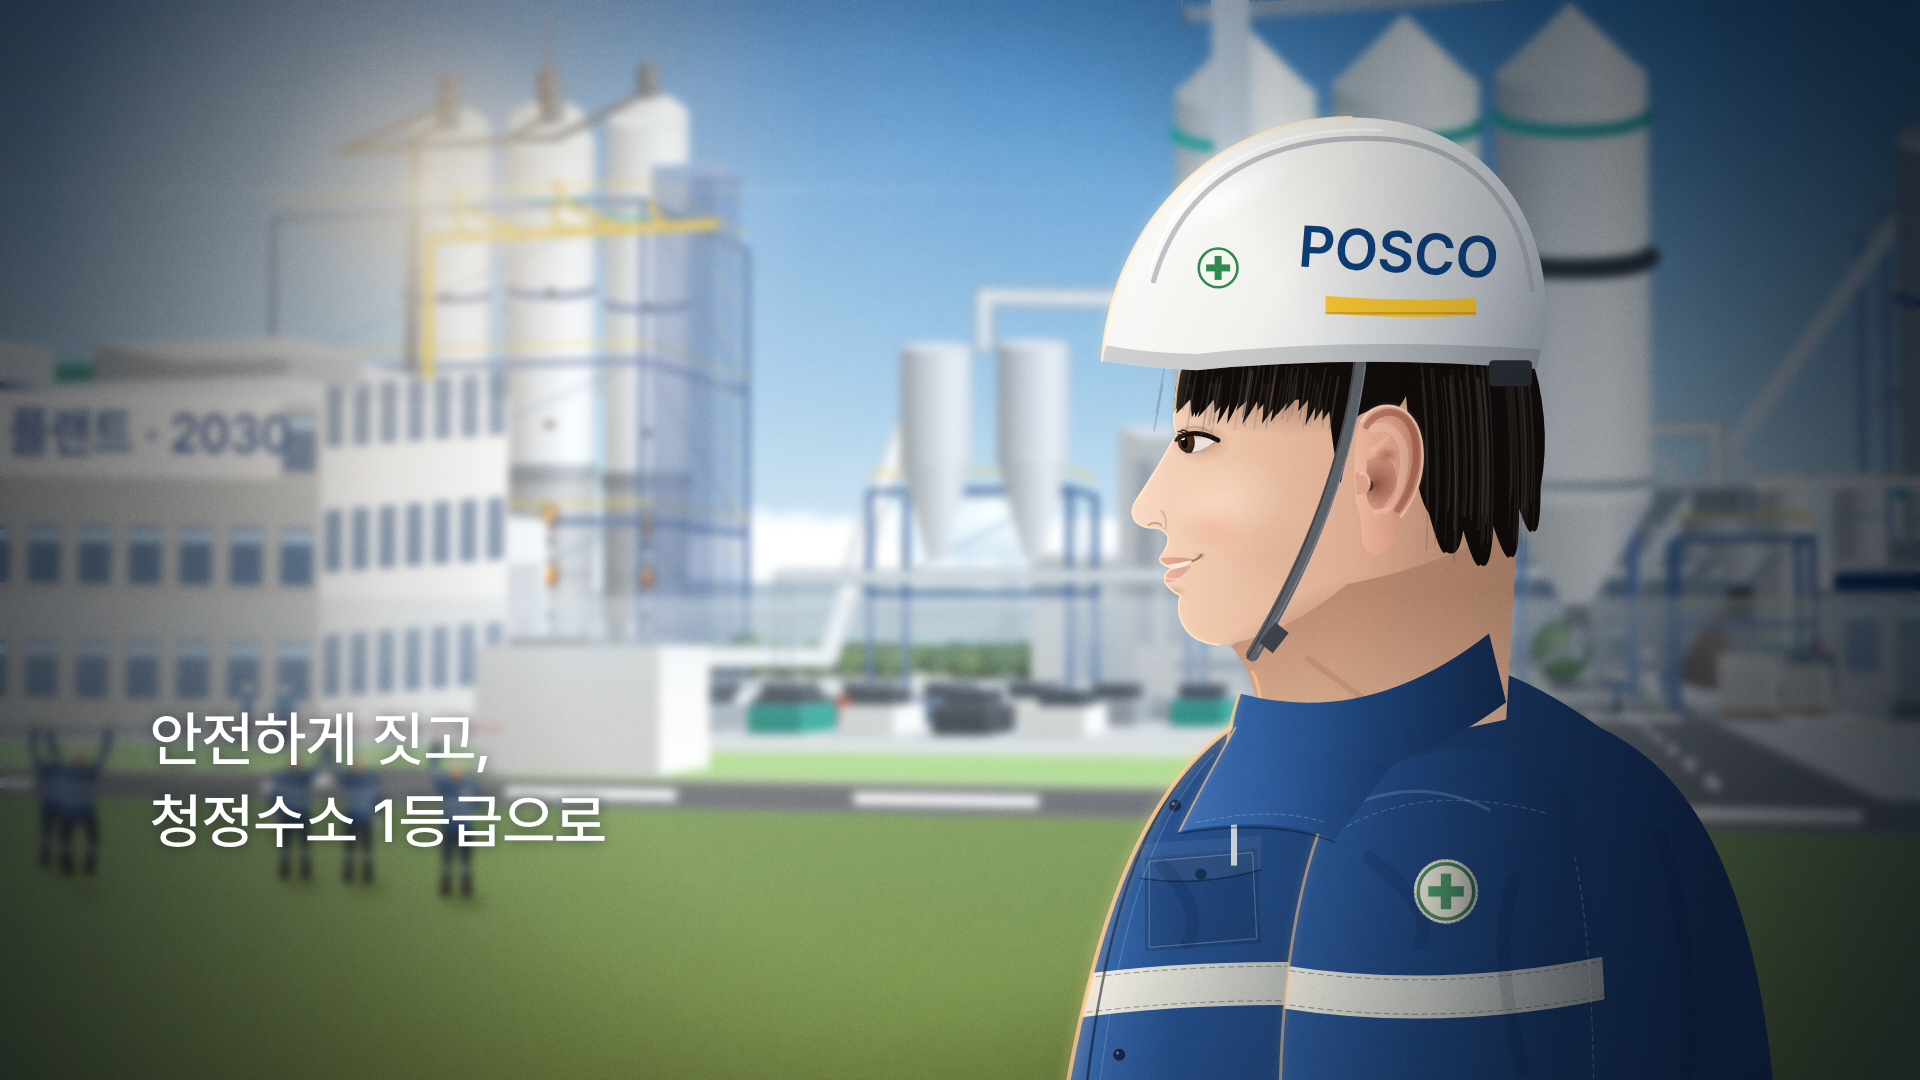
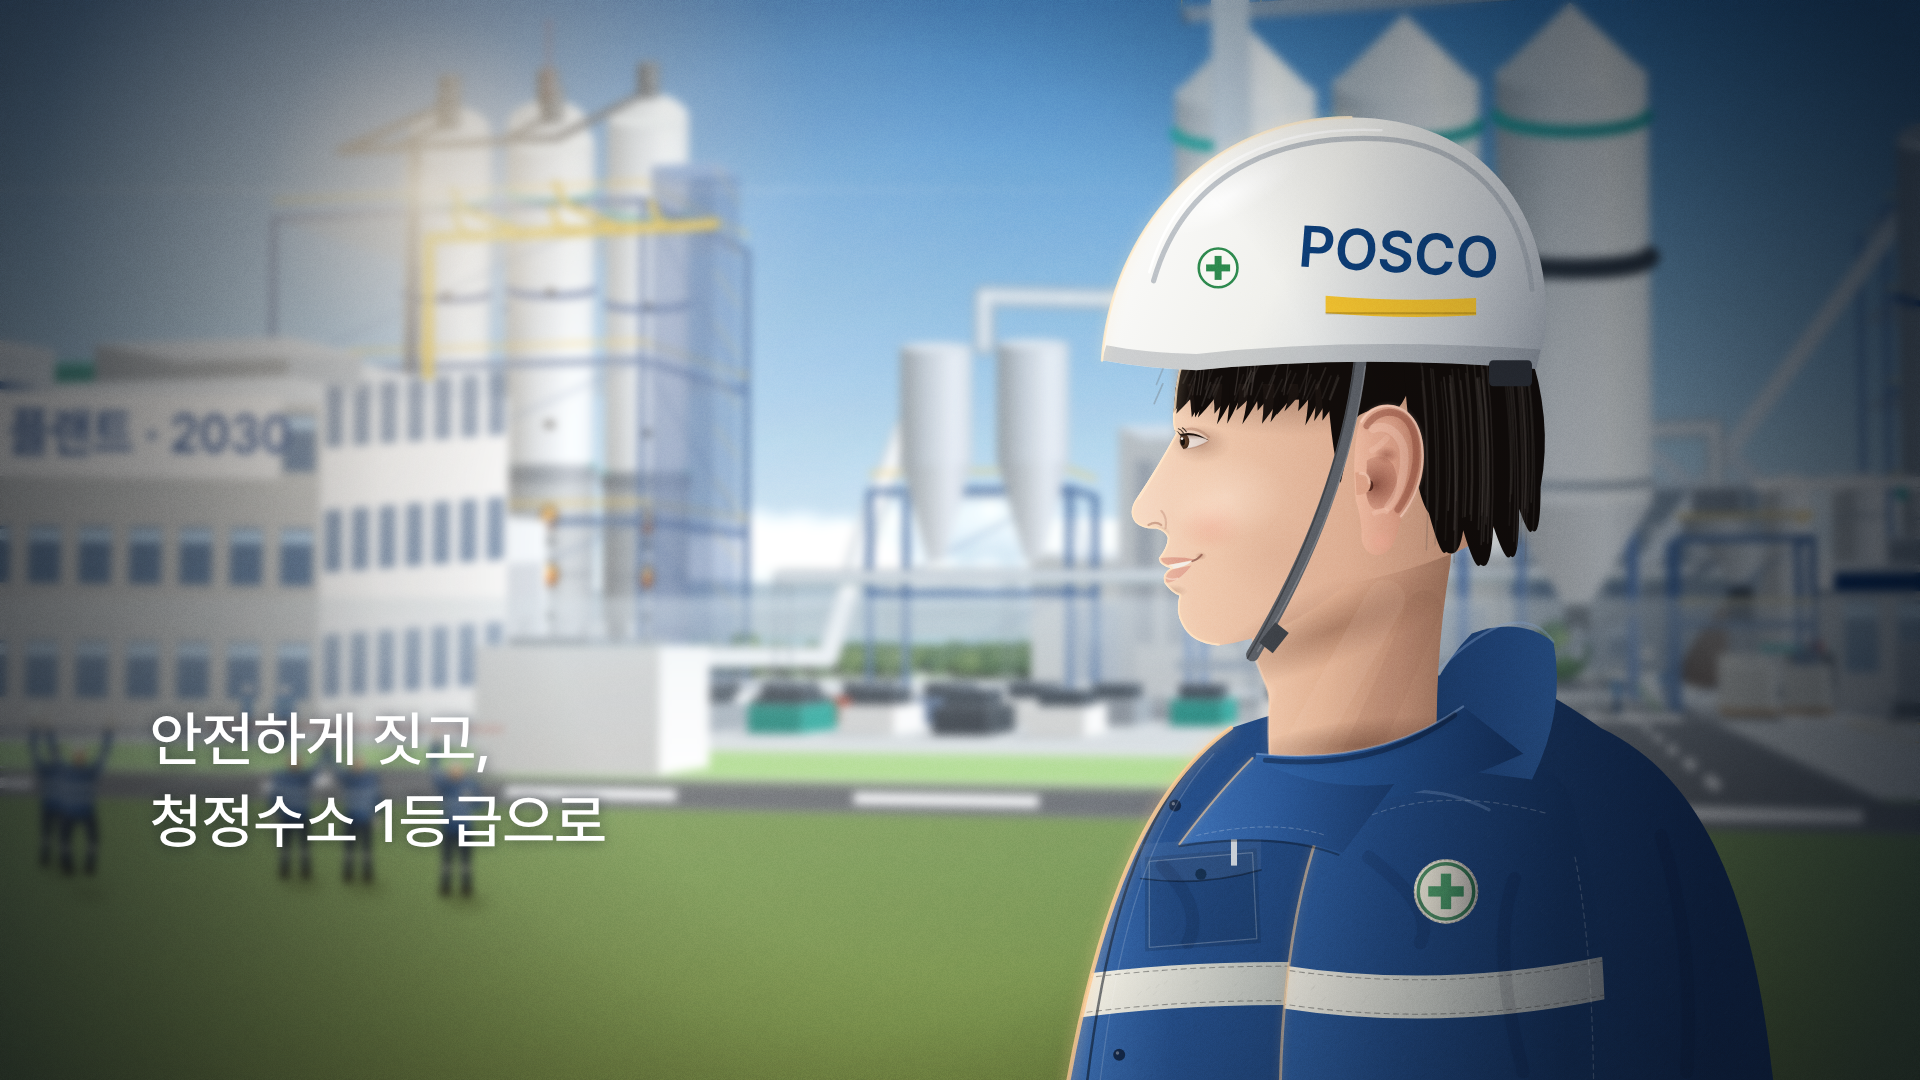
Plate 09A: clean profile eye, slimmer neck flowing into the collar
The eye is redrawn as a proper profile eye: a rounded cornea at the
front with iris, pupil and catch-light, lids meeting at the outer
corner, a crisp upper lid edge that tapers, a barely visible lower
lid, a soft double-lid fold sitting right on the lid, and a few short
lashes. The neck is narrower and modelled with the jaw's cast shadow,
a soft sternocleidomastoid highlight and hollow, and the collar's
shadow; the jacket collar now stands up behind the nape and wraps
round the front of the neck, so face, neck and clothing join without a
gap. Stray hair strokes over the forehead are removed.

Claude-Session: https://claude.ai/code/session_014isZxqUwGxKLbYEc2hccQ6

Changed region(s): [[0.5938, 0.4889, 0.8125, 0.7944], [0.5938, 0.3667, 0.6562, 0.4278]]

diff --git a/plates/plate09a_celebration.html b/plates/plate09a_celebration.html
@@ -1243,19 +1243,33 @@ function heroWorker(ox, oy, s) {
   g.restore();
   stroke('rgba(255,206,150,.55)', .007, () => { M(-.08, .8); Cc(-.17, 1.02, -.2, 1.35, -.18, 1.7); }, 10);
 
-  /* ---- neck (in shadow under the jaw) ---- */
-  g.beginPath(); M(-.3, .41); Qc(-.22, .5, -.23, .7); L(.34, .58); L(.37, .06); L(.05, .2); L(-.2, .33); g.closePath();
-  { const q = g.createLinearGradient(0, Y(.28), 0, Y(.66)); q.addColorStop(0, '#B98A70'); q.addColorStop(1, '#DDB295'); g.fillStyle = q; g.fill(); }
-  stroke('rgba(150,100,78,.22)', .014, () => { M(-.12, .44); Qc(-.02, .51, .1, .6); }, 6);
-  stroke('rgba(255,200,150,.6)', .008, () => { M(-.25, .47); Qc(-.22, .52, -.23, .7); }, 8);
-  // collar stand wraps the neck
-  g.beginPath(); M(-.28, .52); Qc(.02, .6, .3, .38); L(.34, .54); Qc(.02, .78, -.31, .67); g.closePath(); g.fillStyle = lgH(-.31, .32, [[0, '#3466A8'], [.5, '#1F4479'], [1, '#132B50']]); g.fill();
-  stroke('rgba(255,206,150,.7)', .007, () => { M(-.28, .52); Qc(-.31, .6, -.31, .67); }, 8);
-  g.beginPath(); M(-.29, .6); Qc(-.12, .7, .08, .68); L(-.06, .86); Qc(-.2, .8, -.42, .84); Qc(-.36, .72, -.29, .6); g.closePath();
+  /* ---- collar back (behind the neck) ---- */
+  g.beginPath(); M(.1, .68); Qc(.16, .48, .26, .38); Qc(.37, .34, .45, .4); Qc(.48, .56, .4, .72); g.closePath();
+  g.fillStyle = lgH(.14, .45, [[0, '#1B3B69'], [.6, '#22487F'], [1, '#2A5590']]); g.fill();
+  stroke('rgba(150,180,225,.35)', .006, () => { M(.17, .48); Qc(.24, .4, .33, .36); Qc(.41, .34, .45, .4); });       // folded top edge
+
+  /* ---- neck: slimmer, shaded, flowing into the collar ---- */
+  const neck = () => { g.beginPath(); M(-.25, .4); Qc(-.236, .46, -.218, .5); Qc(-.206, .53, -.212, .57); Qc(-.214, .65, -.205, .74); L(.18, .72); Qc(.17, .45, .21, .22); L(.22, .1); L(-.05, .18); L(-.26, .35); g.closePath(); };
+  neck(); g.fillStyle = lgH(-.22, .2, [[0, '#EEC6AA'], [.35, '#DDAE91'], [.75, '#C4937A'], [1, '#A57861']]); g.fill();
+  g.save(); neck(); g.clip();
+  blob(-.06, .37, .32, .075, '125,82,62', .5, -.38);                                                   // shadow cast by the jaw
+  stroke('rgba(255,228,210,.1)', .09, () => { M(.06, .3); Qc(-.03, .46, -.14, .66); }, 30);          // sternocleidomastoid catching light
+  stroke('rgba(130,86,66,.1)', .08, () => { M(.15, .32); Qc(.08, .5, -.02, .7); }, 30);              // and the hollow behind it
+  blob(-.212, .52, .02, .03, '255,226,206', .35);                                                      // soft Adam's apple
+  blob(.0, .64, .28, .06, '95,58,42', .5, -.12);                                                      // collar shadow on the neck
+  g.restore();
+  stroke('rgba(255,214,180,.55)', .006, () => { M(-.25, .42); Qc(-.236, .46, -.218, .5); Qc(-.206, .53, -.212, .57); Qc(-.214, .65, -.205, .72); }, 8);
+
+  /* ---- collar front: wraps round the neck, then the shirt-style collar point ---- */
+  g.beginPath(); M(.24, .55); Qc(.04, .69, -.24, .66); L(-.28, .78); Qc(.03, .82, .38, .66); g.closePath();
+  g.fillStyle = lgH(-.28, .34, [[0, '#3466A8'], [.45, '#24508C'], [1, '#163360']]); g.fill();
+  stroke('rgba(170,200,240,.4)', .005, () => { M(.24, .55); Qc(.04, .69, -.24, .66); });                // rolled top edge catches light
+  stroke('rgba(5,12,25,.35)', .012, () => { M(.22, .57); Qc(.04, .7, -.22, .675); }, 6);              // shadow where the collar meets the neck
+  g.beginPath(); M(-.25, .67); Qc(-.1, .75, .08, .73); L(-.04, .89); Qc(-.2, .84, -.42, .87); Qc(-.33, .75, -.25, .67); g.closePath();
   g.fillStyle = lgH(-.42, .08, [[0, '#3F72B6'], [.5, '#2A5694'], [1, '#1A3A6A']]); g.fill();
-  g.save(); g.setLineDash([.01 * s, .008 * s]); stroke('rgba(255,255,255,.22)', .0025, () => { M(-.38, .82); Qc(-.2, .78, -.08, .82); }); g.restore();
-  stroke('rgba(0,0,0,.3)', .005, () => { M(-.42, .845); Qc(-.2, .81, -.06, .865); });
-  stroke('rgba(255,206,150,.6)', .005, () => { M(-.29, .6); Qc(-.36, .72, -.42, .84); }, 6);
+  g.save(); g.setLineDash([.01 * s, .008 * s]); stroke('rgba(255,255,255,.22)', .0025, () => { M(-.38, .85); Qc(-.2, .81, -.08, .85); }); g.restore();
+  stroke('rgba(0,0,0,.3)', .005, () => { M(-.42, .875); Qc(-.2, .84, -.05, .895); });
+  stroke('rgba(255,206,150,.6)', .005, () => { M(-.25, .67); Qc(-.33, .75, -.42, .87); }, 6);
 
   /* ---- head: young man, neutral expression (after the reference photo) ---- */
   const profile = () => {
@@ -1289,33 +1303,38 @@ function heroWorker(ox, oy, s) {
   stroke('rgba(255,236,226,.5)', .004, () => { M(-.452, .25); Qc(-.44, .258, -.424, .252); });
   blob(-.35, .1, .09, .06, '255,226,208', .35);                                                        // raised cheek
   blob(-.35, .135, .07, .05, '236,140,120', .14);
-  // eye: larger open eye in profile, happy lower lid, iris at the front
-  const eyeP = () => { g.beginPath(); M(-.423, -.072); Qc(-.385, -.098, -.333, -.07); Qc(-.36, -.036, -.405, -.04); Qc(-.428, -.05, -.423, -.072); g.closePath(); };
-  blob(-.375, -.075, .07, .04, '120,78,60', .25);
-  eyeP(); g.fillStyle = '#ECE2DA'; g.fill();
+  // eye in profile, drawn cleanly: rounded cornea at the front, lids meeting at the outer corner
+  blob(-.38, -.07, .065, .035, '150,100,80', .2);                                                      // soft socket shade
+  const eyeP = () => { g.beginPath(); M(-.417, -.082); Qc(-.384, -.088, -.352, -.068); Qc(-.382, -.05, -.411, -.049); Qc(-.425, -.065, -.417, -.082); g.closePath(); };
+  eyeP(); { const q = g.createLinearGradient(X(-.425), 0, X(-.35), 0); q.addColorStop(0, '#F4ECE7'); q.addColorStop(1, '#D9C7BD'); g.fillStyle = q; g.fill(); }
   g.save(); eyeP(); g.clip();
-  { const ix = X(-.404), iy = Y(-.064), q = g.createRadialGradient(ix, iy, 0, ix, iy, .028 * s); q.addColorStop(0, '#5A3A26'); q.addColorStop(.7, '#3A2417'); q.addColorStop(1, '#1E120B'); g.fillStyle = q; g.beginPath(); g.ellipse(ix, iy, .02 * s, .03 * s, 0, 0, 7); g.fill(); }
-  g.fillStyle = '#0D0705'; g.beginPath(); g.ellipse(X(-.408), Y(-.064), .008 * s, .014 * s, 0, 0, 7); g.fill();
-  g.fillStyle = 'rgba(255,255,255,.95)'; g.beginPath(); g.arc(X(-.412), Y(-.074), .005 * s, 0, 7); g.fill();
-  blob(-.38, -.084, .05, .014, '80,48,36', .45);                                                       // lid shadow on the eyeball
+  { const ix = X(-.409), iy = Y(-.066), q = g.createRadialGradient(ix, iy, 0, ix, iy, .02 * s); q.addColorStop(0, '#6A4630'); q.addColorStop(.75, '#3F2819'); q.addColorStop(1, '#22150D'); g.fillStyle = q; g.beginPath(); g.ellipse(ix, iy, .012 * s, .0175 * s, 0, 0, 7); g.fill(); }
+  g.fillStyle = '#0E0806'; g.beginPath(); g.ellipse(X(-.412), Y(-.066), .005 * s, .009 * s, 0, 0, 7); g.fill();
+  g.fillStyle = '#FFFFFF'; g.beginPath(); g.arc(X(-.414), Y(-.073), .0032 * s, 0, 7); g.fill();
+  blob(-.39, -.08, .04, .01, '110,70,55', .4);                                                         // upper lid shadow on the eyeball
   g.restore();
-  stroke('rgba(16,9,6,.95)', .011, () => { M(-.428, -.071); Qc(-.386, -.1, -.33, -.069); });              // upper lash line
-  stroke('rgba(140,90,70,.45)', .0035, () => { M(-.405, -.039); Qc(-.37, -.037, -.335, -.066); });       // happy lower lid
-  stroke('rgba(150,100,80,.35)', .004, () => { M(-.415, -.093); Qc(-.385, -.11, -.345, -.088); });        // soft double-lid crease
-  [[-.426, -.073], [-.418, -.08], [-.409, -.085], [-.4, -.088]].forEach(([x, y]) => stroke('rgba(16,9,6,.9)', .0032, () => { M(x, y); Qc(x - .008, y - .006, x - .016, y - .004); }));
+  // upper lid edge: crisp, slightly thicker at the front, tapering to the outer corner
+  g.fillStyle = '#1A100B'; g.beginPath(); M(-.42, -.083); Qc(-.384, -.093, -.35, -.068); Qc(-.384, -.086, -.417, -.079); g.closePath(); g.fill();
+  // lower lid: barely there
+  stroke('rgba(150,100,82,.3)', .0028, () => { M(-.41, -.049); Qc(-.38, -.05, -.354, -.066); });
+  // natural double-lid crease: a soft fold just above the lid, fading toward the front
+  stroke('rgba(150,98,78,.28)', .006, () => { M(-.404, -.094); Qc(-.38, -.101, -.352, -.077); }, 3);
+  stroke('rgba(255,236,224,.35)', .006, () => { M(-.408, -.088); Qc(-.384, -.094, -.358, -.074); }, 2);   // lid skin highlight
+  // lashes: a few short ones flicking forward at the front
+  [[-.418, -.083, -.03], [-.411, -.087, -.025], [-.404, -.089, -.02]].forEach(([x, y, d]) => stroke('rgba(20,12,8,.85)', .0026, () => { M(x, y); Qc(x - .006, y - .008, x + d * .45, y - .009); }));
   // hair: long fringe over the forehead, side hair over the ear top, shaggy back hair to the nape
   const HAIR = '#110C0A';
   g.fillStyle = HAIR; g.beginPath(); M(-.52, -.25); L(.02, -.262); L(.01, -.17); Qc(-.25, -.15, -.5, -.19); g.closePath(); g.fill();
   { const rs = rng(31); for (let k = 0; k < 26; k++) { const x0 = -.5 + k * .02 + (rs() - .5) * .01, tip = -.085 - rs() * .055 - (k > 22 ? .04 : 0) - (k < 2 ? .05 : 0), w = .018 + rs() * .014, lean = -.015 - rs() * .02; const tipC = (x0 > -.45 && x0 < -.31) ? Math.min(tip, -.122) : tip;
     g.fillStyle = k % 3 ? HAIR : '#1A1310'; g.beginPath(); M(x0 - w, -.2); Qc(x0 - w * .4 + lean * .4, (tipC - .2) / 2, x0 + lean, tipC); Qc(x0 + w * .5 + lean * .3, (tipC - .2) / 2, x0 + w, -.2); g.closePath(); g.fill(); }
-    for (let k = 0; k < 18; k++) { const x0 = -.48 + rs() * .46; stroke(`rgba(105,96,92,${.18 + rs() * .2})`, .003, () => { M(x0, -.24); Qc(x0 - .006, -.18, x0 - .016, -.12 - rs() * .02); }); } }
+    for (let k = 0; k < 18; k++) { const x0 = -.46 + rs() * .44; stroke(`rgba(105,96,92,${.18 + rs() * .2})`, .003, () => { M(x0, -.245); Qc(x0 - .004, -.21, x0 - .01, -.175); }); } }
   g.restore();
   // side + back hair (outside the head clip so it can stand off the skull)
   g.fillStyle = HAIR; g.beginPath(); M(-.08, -.26); L(.13, -.27); Qc(.12, -.17, .08, -.135); Qc(.02, -.15, -.01, -.12); Qc(-.03, -.04, -.045, .03); Qc(-.07, -.06, -.08, -.26); g.closePath(); g.fill();
   g.beginPath(); M(.1, -.27); L(.39, -.29); Qc(.45, -.12, .42, .04);
   [[.4, .14], [.37, .09], [.35, .2], [.31, .13], [.28, .22], [.24, .14], [.2, .19], [.16, .1]].forEach(([x, y], i, a) => { const p = i ? a[i - 1] : [.42, .08]; Qc((p[0] + x) / 2 + .01, Math.max(p[1], y) + .02, x, y); });
   Qc(.12, .05, .1, -.27); g.closePath(); g.fill();
-  for (let i = 0; i < 70; i++) { const back = i > 30, x = back ? .14 + r() * .26 : -.46 + r() * .44, y = -.25 + r() * .05, L2 = back ? .3 + r() * .12 : .1 + r() * .03;
+  for (let i = 0; i < 70; i++) { const back = i > 30, x = back ? .14 + r() * .26 : -.46 + r() * .44, y = -.25 + r() * .05, L2 = back ? .3 + r() * .12 : .04 + r() * .02;
     stroke(`rgba(95,88,84,${.15 + r() * .18})`, .004, () => { M(x, y); Qc(x + (back ? .02 : -.01), y + L2 * .5, x + (back ? .01 : -.02), y + L2); }); }
   // ear: helix, antihelix with crura, concha, ear canal behind the tragus, antitragus, fleshy lobe
   const ear = () => { g.beginPath(); M(.0, -.115); Cc(.03, -.172, .132, -.172, .147, -.06); Cc(.157, .02, .123, .08, .097, .11);
